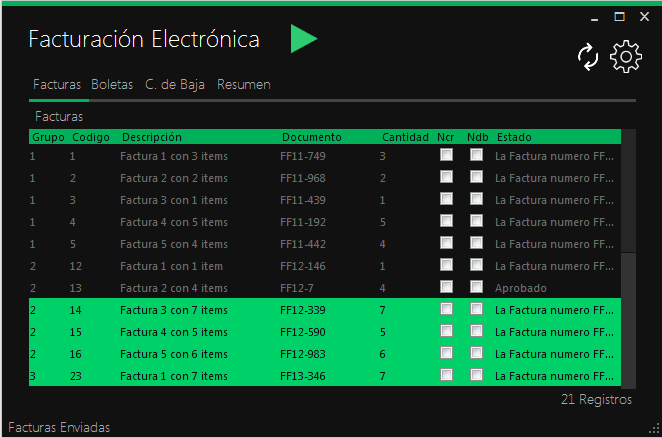
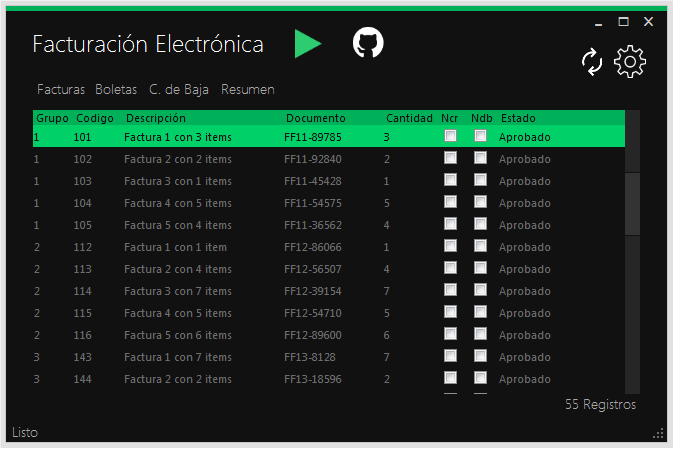
Fix load configuration from json file

diff --git a/Homologador/ConfigurationForm.cs b/Homologador/ConfigurationForm.cs
@@ -39,7 +39,7 @@ namespace Homologador
 
         private void btnCertificate_Click(object sender, EventArgs e)
         {
-            var open = new OpenFileDialog {Filter = @"Pfx Files (*.pfx)|*.pfx"};
+            var open = new OpenFileDialog {Filter = Resources.SettingFilterFilesPfx};
             if (open.ShowDialog() != DialogResult.OK)
                 return;
 
@@ -85,12 +85,12 @@ namespace Homologador
             try
             {
                 if (RucAuth.Validate(txtRuc.Text, txtUser.Text, txtClave.Text)) return true;
-                MetroMessageBox.Show(this, "Credenciales invalidas", "Error", MessageBoxButtons.OK, MessageBoxIcon.Error);
+                MetroMessageBox.Show(this, "Credenciales invalidas", Resources.SettingTitleError, MessageBoxButtons.OK, MessageBoxIcon.Error);
                 txtRuc.Focus();
             }
             catch (Exception e)
             {
-                MetroMessageBox.Show(this, e.Message, "Error", MessageBoxButtons.OK, MessageBoxIcon.Error);
+                MetroMessageBox.Show(this, e.Message, Resources.SettingTitleError, MessageBoxButtons.OK, MessageBoxIcon.Error);
             }
             return false;
         }
@@ -107,7 +107,29 @@ namespace Homologador
                 return;
             }
 
-            var jsonText = File.ReadAllText(dialog.FileName);
+            try
+            {
+                LoadConfig(dialog.FileName);
+                MetroMessageBox.Show(this,
+                    Resources.SettingMsgLoadSuccess,
+                    Resources.SettingTitleSucces,
+                    MessageBoxButtons.OK,
+                    MessageBoxIcon.Information);
+            }
+            catch (Exception)
+            {
+                MetroMessageBox.Show(this,
+                    Resources.SettingMsgLoadError,
+                    Resources.SettingTitleError,
+                    MessageBoxButtons.OK,
+                    MessageBoxIcon.Error);
+            }
+        }
+
+
+        private void LoadConfig(string filename)
+        {
+            var jsonText = File.ReadAllText(filename);
             dynamic obj = JObject.Parse(jsonText);
 
             txtRuc.Text = obj.Ruc;
@@ -123,9 +145,9 @@ namespace Homologador
             txtClave.Text = obj.Clave;
             txtClaveCert.Text = obj.ClaveCert;
             chkProveedor.Checked = obj.EsProveedor;
-            if (!string.IsNullOrEmpty(obj.Certificado))
+            if (!string.IsNullOrEmpty((string)obj.Certificado))
             {
-                txtPathCertify.Tag = obj.Certificado;
+                txtPathCertify.Tag = obj.Certificado.ToString();
                 txtPathCertify.Text = @"Certificado Cargado";
             }
         }
@@ -135,7 +157,7 @@ namespace Homologador
             var dialog = new SaveFileDialog
             {
                 Filter = Resources.FileFilterJson,
-                FileName = "homologador_settings.json"
+                FileName = Resources.SettingFilenamDefault
             };
 
             if (dialog.ShowDialog() != DialogResult.OK)
@@ -169,7 +191,11 @@ namespace Homologador
             }
 
             File.WriteAllText(dialog.FileName, obj.ToString());
-            MetroMessageBox.Show(this, "Configuracion Guardada", "Exito", MessageBoxButtons.OK, MessageBoxIcon.Information);
+            MetroMessageBox.Show(this,
+                Resources.SettingMsgSaved,
+                Resources.SettingTitleSucces,
+                MessageBoxButtons.OK,
+                MessageBoxIcon.Information);
         }
     }
 }

diff --git a/Homologador/Properties/Resources.Designer.cs b/Homologador/Properties/Resources.Designer.cs
@@ -90,12 +90,94 @@ namespace Homologador.Properties {
         }
         
         /// <summary>
+        ///   Busca una cadena traducida similar a https://github.com/giansalex/homologadorSunat.
+        /// </summary>
+        internal static string GibhubLinkProject {
+            get {
+                return ResourceManager.GetString("GibhubLinkProject", resourceCulture);
+            }
+        }
+        
+        /// <summary>
+        ///   Busca un recurso adaptado de tipo System.Drawing.Bitmap.
+        /// </summary>
+        internal static System.Drawing.Bitmap github {
+            get {
+                object obj = ResourceManager.GetObject("github", resourceCulture);
+                return ((System.Drawing.Bitmap)(obj));
+            }
+        }
+        
+        /// <summary>
         ///   Busca un recurso adaptado de tipo System.Drawing.Bitmap.
         /// </summary>
         internal static System.Drawing.Bitmap play {
             get {
                 object obj = ResourceManager.GetObject("play", resourceCulture);
                 return ((System.Drawing.Bitmap)(obj));
+            }
+        }
+        
+        /// <summary>
+        ///   Busca una cadena traducida similar a homologador_settings.json.
+        /// </summary>
+        internal static string SettingFilenamDefault {
+            get {
+                return ResourceManager.GetString("SettingFilenamDefault", resourceCulture);
+            }
+        }
+        
+        /// <summary>
+        ///   Busca una cadena traducida similar a Pfx Files (*.pfx)|*.pfx.
+        /// </summary>
+        internal static string SettingFilterFilesPfx {
+            get {
+                return ResourceManager.GetString("SettingFilterFilesPfx", resourceCulture);
+            }
+        }
+        
+        /// <summary>
+        ///   Busca una cadena traducida similar a No se pudo cargar la configuracion.
+        /// </summary>
+        internal static string SettingMsgLoadError {
+            get {
+                return ResourceManager.GetString("SettingMsgLoadError", resourceCulture);
+            }
+        }
+        
+        /// <summary>
+        ///   Busca una cadena traducida similar a Configuración Cargada.
+        /// </summary>
+        internal static string SettingMsgLoadSuccess {
+            get {
+                return ResourceManager.GetString("SettingMsgLoadSuccess", resourceCulture);
+            }
+        }
+        
+        /// <summary>
+        ///   Busca una cadena traducida similar a Configuracion Guardada.
+        /// </summary>
+        internal static string SettingMsgSaved {
+            get {
+                return ResourceManager.GetString("SettingMsgSaved", resourceCulture);
+            }
+        }
+        
+        /// <summary>
+        ///   Busca una cadena traducida similar a Error.
+        /// </summary>
+        internal static string SettingTitleError {
+            get {
+                return ResourceManager.GetString("SettingTitleError", resourceCulture);
+            }
+        }
+        
+        /// <summary>
+        ///   Busca una cadena traducida similar a Exito.
+        /// </summary>
+        internal static string SettingTitleSucces {
+            get {
+                return ResourceManager.GetString("SettingTitleSucces", resourceCulture);
             }
         }
         

diff --git a/Homologador/MainForm.Designer.cs b/Homologador/MainForm.Designer.cs
@@ -76,6 +76,7 @@
             this.btnSync = new System.Windows.Forms.PictureBox();
             this.btnSetting = new System.Windows.Forms.PictureBox();
             this.btnRun = new System.Windows.Forms.PictureBox();
+            this.pictGithub = new System.Windows.Forms.PictureBox();
             this.tbDocs.SuspendLayout();
             this.mtabFacturas.SuspendLayout();
             ((System.ComponentModel.ISupportInitialize)(this.gridFacturas)).BeginInit();
@@ -88,6 +89,7 @@
             ((System.ComponentModel.ISupportInitialize)(this.btnSync)).BeginInit();
             ((System.ComponentModel.ISupportInitialize)(this.btnSetting)).BeginInit();
             ((System.ComponentModel.ISupportInitialize)(this.btnRun)).BeginInit();
+            ((System.ComponentModel.ISupportInitialize)(this.pictGithub)).BeginInit();
             this.SuspendLayout();
             // 
             // tbDocs
@@ -624,11 +626,25 @@
             this.btnRun.TabStop = false;
             this.btnRun.Click += new System.EventHandler(this.btnRun_Click);
             // 
+            // pictGithub
+            // 
+            this.pictGithub.Anchor = ((System.Windows.Forms.AnchorStyles)((System.Windows.Forms.AnchorStyles.Top | System.Windows.Forms.AnchorStyles.Right)));
+            this.pictGithub.Cursor = System.Windows.Forms.Cursors.Hand;
+            this.pictGithub.Image = global::Homologador.Properties.Resources.github;
+            this.pictGithub.Location = new System.Drawing.Point(346, 20);
+            this.pictGithub.Name = "pictGithub";
+            this.pictGithub.Size = new System.Drawing.Size(32, 33);
+            this.pictGithub.SizeMode = System.Windows.Forms.PictureBoxSizeMode.StretchImage;
+            this.pictGithub.TabIndex = 7;
+            this.pictGithub.TabStop = false;
+            this.pictGithub.Click += new System.EventHandler(this.pictGithub_Click);
+            // 
             // MainForm
             // 
             this.AutoScaleDimensions = new System.Drawing.SizeF(6F, 13F);
             this.AutoScaleMode = System.Windows.Forms.AutoScaleMode.Font;
             this.ClientSize = new System.Drawing.Size(661, 436);
+            this.Controls.Add(this.pictGithub);
             this.Controls.Add(this.btnSync);
             this.Controls.Add(this.btnSetting);
             this.Controls.Add(this.spinner);
@@ -654,6 +670,7 @@
             ((System.ComponentModel.ISupportInitialize)(this.btnSync)).EndInit();
             ((System.ComponentModel.ISupportInitialize)(this.btnSetting)).EndInit();
             ((System.ComponentModel.ISupportInitialize)(this.btnRun)).EndInit();
+            ((System.ComponentModel.ISupportInitialize)(this.pictGithub)).EndInit();
             this.ResumeLayout(false);
             this.PerformLayout();
 
@@ -701,5 +718,6 @@
         private System.Windows.Forms.DataGridViewCheckBoxColumn bnotacr;
         private System.Windows.Forms.DataGridViewCheckBoxColumn bnotadb;
         private System.Windows.Forms.DataGridViewTextBoxColumn bestado;
+        private System.Windows.Forms.PictureBox pictGithub;
     }
 }

diff --git a/Homologador/MainForm.cs b/Homologador/MainForm.cs
@@ -1,5 +1,6 @@
 using System;
 using System.Collections.Generic;
+using System.Diagnostics;
 using System.Linq;
 using System.Threading.Tasks;
 using System.Windows.Forms;
@@ -511,6 +512,11 @@ namespace Homologador
         private void btnSync_Click(object sender, EventArgs e)
         {
             Init();
+        }
+
+        private void pictGithub_Click(object sender, EventArgs e)
+        {
+            Process.Start(Resources.GibhubLinkProject);
         }
 
         #region Notas
